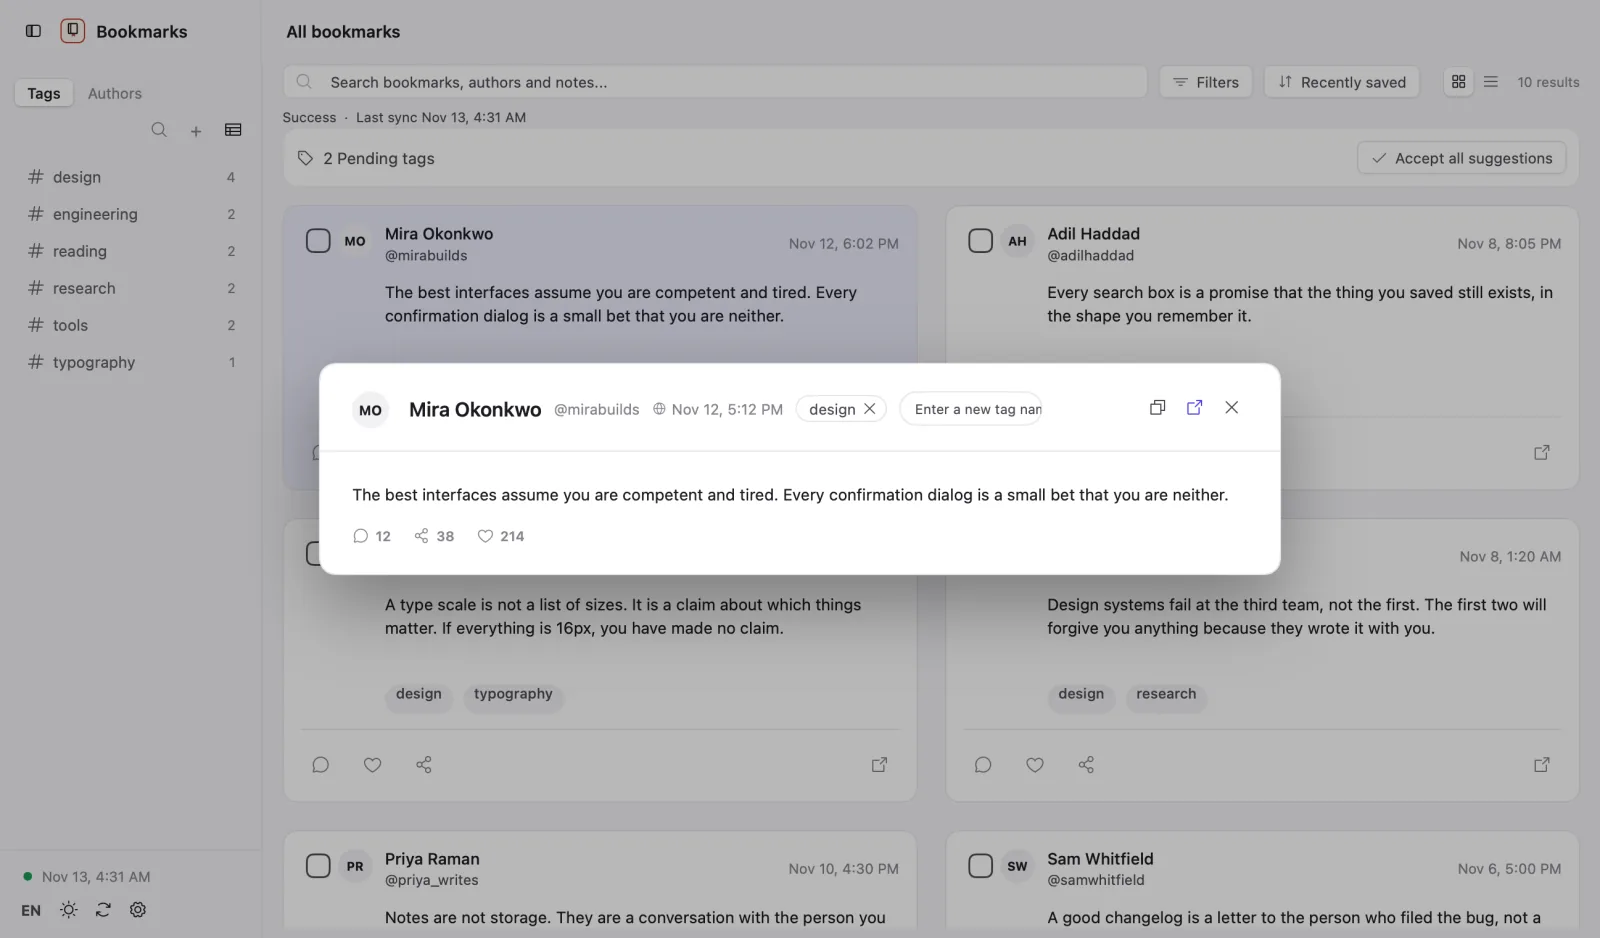
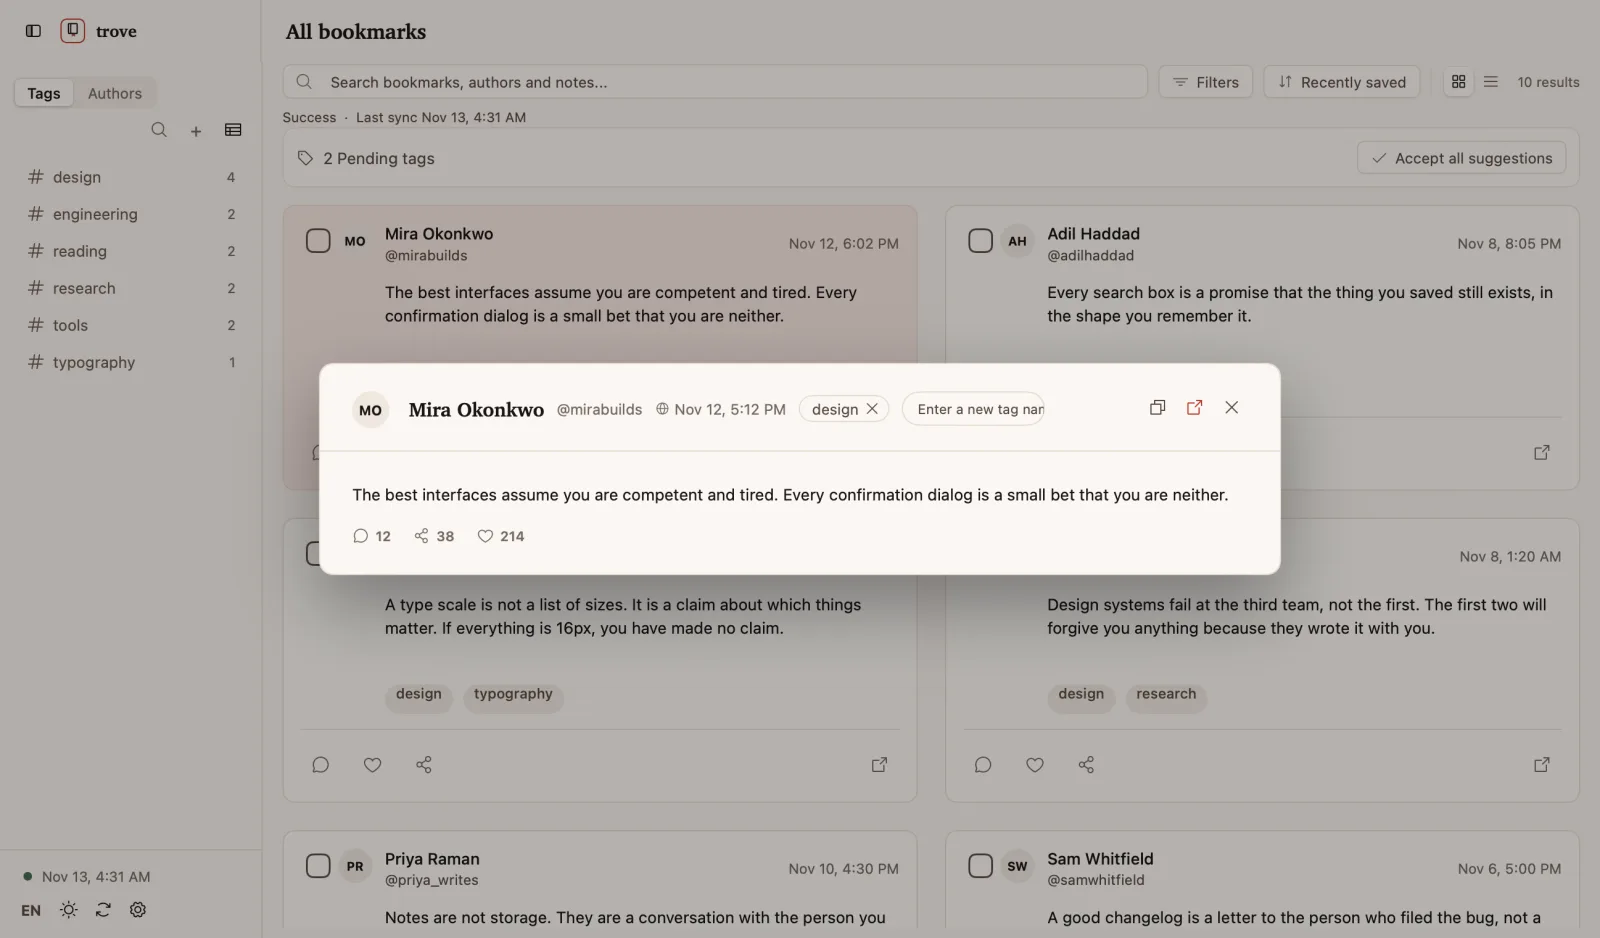
feat: ship 0.3.5 and put the site on the same palette
The site's pressed and on-accent steps now come from the app (#7e241c,
#ffffff) instead of the browser's defaults, and the screenshots are
recaptured from the new build on the frozen site fixture, so the download
page shows the app it is selling.

diff --git a/site/public/styles.css b/site/public/styles.css
@@ -8,6 +8,8 @@
   --ink-warm: #3a312d;
   --muted: #756a63;
   --accent: #b83d2e;
+  --accent-pressed: #7e241c; /* the step below the accent, the app's pressed value */
+  --on-accent: #ffffff;      /* text on the accent, as in the app */
   --max: 1120px;
   --serif: "Source Serif 4", Charter, Georgia, "Songti SC", "Noto Serif CJK SC", "STSong", Palatino, serif;
   --mono: "JetBrains Mono", "SF Mono", ui-monospace, "Songti SC", monospace;
@@ -144,7 +146,7 @@ code {
 }
 
 .langs button + button { border-left: 1px solid var(--rule); }
-.langs button[aria-pressed="true"] { background: var(--accent); color: #fdf9f4; }
+.langs button[aria-pressed="true"] { background: var(--accent); color: var(--on-accent); }
 
 .repo-link {
   display: inline-flex;
@@ -256,11 +258,11 @@ p { color: var(--ink-warm); }
 .button.primary {
   background: var(--accent);
   border-color: var(--accent);
-  color: #fdf9f4;
+  color: var(--on-accent);
 }
 
 .button.primary small { color: #f0d8d1; }
-.button.primary:hover { background: #a33426; border-color: #a33426; }
+.button.primary:hover { background: var(--accent-pressed); border-color: var(--accent-pressed); }
 .button:not(.primary):hover { border-color: var(--ink-warm); }
 
 /* ---------- hero ---------- */

diff --git a/CHANGELOG.md b/CHANGELOG.md
@@ -4,6 +4,23 @@
 update it signs, so the heading below must exist before a tag is pushed. Keep the
 heading plain (`## 0.3.2`) or Keep a Changelog's (`## [0.3.2] - 2026-11-14`).
 
+## 0.3.5
+
+### Changed
+
+- The window is set in the folio family: parchment pages and ivory cards in the light
+  appearance, warm ink in the dark one, one cinnabar accent, and headings in the display
+  serif. The download page and the app are now one palette.
+- The title bar's brand lockup reads `trove` in both languages; the page's own name sits in
+  the crumb beside it.
+- Confirmations are the app's own card instead of the platform alert, so a destructive
+  action is the danger ink on paper rather than the system's accent button.
+
+### Fixed
+
+- The scrollbar thumb is warm paper in both appearances instead of the toolkit's neutral
+  grey.
+
 ## 0.3.4
 
 ### Fixed
